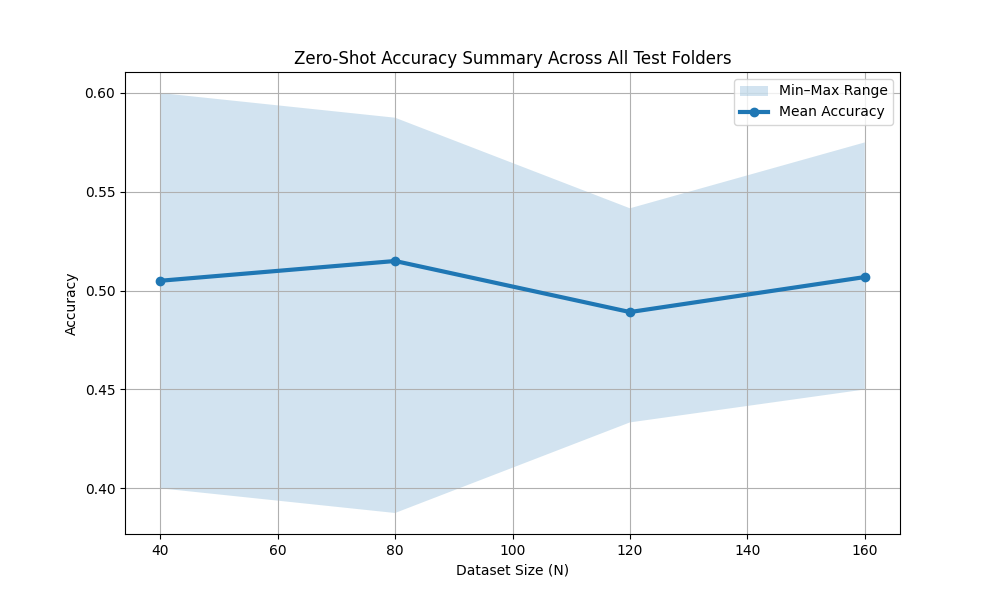
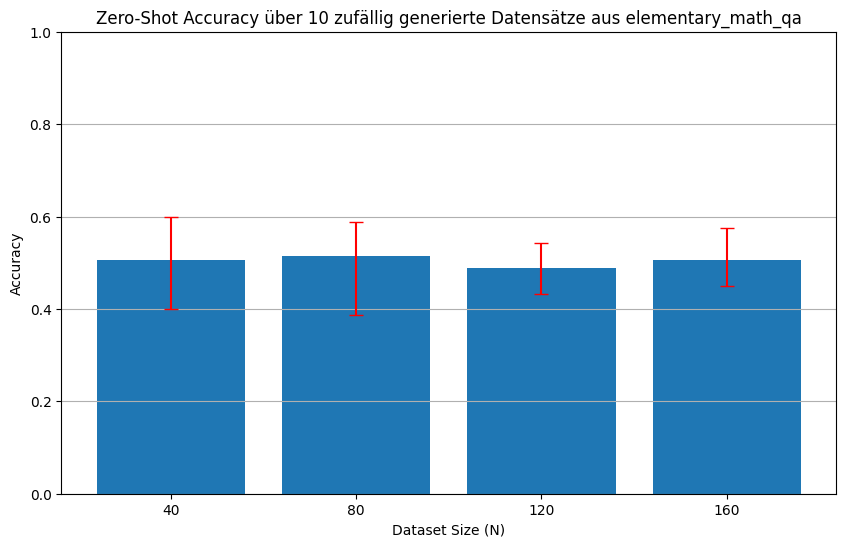
improve analysis - better graphic

diff --git a/elementary_math_qa/analyse.py b/elementary_math_qa/analyse.py
@@ -70,29 +70,51 @@ def build_overall_summary(all_results: pd.DataFrame):
 
 
 def plot_summary(summary_df: pd.DataFrame):
-    """Erstellt eine Min/Max/Mean Grafik für Accuracy pro N."""
+    """
+    Erstellt ein Balkendiagramm für Accuracy pro N:
+    - Balken = Mittelwert
+    - Fehlerbalken = Abstand zu Min/Max
+    - y-Achse beginnt bei 0
+    """
 
-    plt.figure(figsize=(10, 6))
-
-    Ns = summary_df["N"]
+    Ns = summary_df["N"].astype(int)
     mean = summary_df["mean"]
     minv = summary_df["min"]
     maxv = summary_df["max"]
 
-    # Bereich (min–max)
-    plt.fill_between(Ns, minv, maxv, alpha=0.2, label="Min–Max Range")
+    # Fehlerbalken nach unten/oben relativ zum Mittelwert
+    yerr_lower = mean - minv
+    yerr_upper = maxv - mean
 
-    # Mittelwert
-    plt.plot(Ns, mean, marker="o", linewidth=3, label="Mean Accuracy")
+    x = range(len(Ns))
+
+    plt.figure(figsize=(10, 6))
+
+    # Balken für die Mittelwerte
+    plt.bar(x, mean, tick_label=Ns)
+
+    # Fehlerbalken (Min/Max)
+    plt.errorbar(
+      x,
+      mean,
+      yerr=[yerr_lower, yerr_upper],
+      fmt="none",
+      capsize=5,
+      linewidth=1.5,
+      ecolor="red"           # <- hier Farbe ändern!
+    )
 
     plt.xlabel("Dataset Size (N)")
     plt.ylabel("Accuracy")
-    plt.title("Zero-Shot Accuracy Summary Across All Test Folders")
-    plt.grid(True)
-    plt.legend()
+    plt.title("Zero-Shot Accuracy über 10 zufällig generierte Datensätze aus elementary_math_qa")
+
+    # y-Achse sicher bei 0 starten lassen
+    plt.ylim(bottom=0.0, top=1.0)
+
+    plt.grid(axis="y")
 
     output = BASE_DIR / "overall_plot.png"
-    plt.savefig(output)
+    plt.savefig(output, bbox_inches="tight")
     print(f"→ Grafik gespeichert als {output}")
 
 

diff --git a/navigate_200/analyse.py b/navigate_200/analyse.py
@@ -70,29 +70,51 @@ def build_overall_summary(all_results: pd.DataFrame):
 
 
 def plot_summary(summary_df: pd.DataFrame):
-    """Erstellt eine Min/Max/Mean Grafik für Accuracy pro N."""
+    """
+    Erstellt ein Balkendiagramm für Accuracy pro N:
+    - Balken = Mittelwert
+    - Fehlerbalken = Abstand zu Min/Max
+    - y-Achse beginnt bei 0
+    """
 
-    plt.figure(figsize=(10, 6))
-
-    Ns = summary_df["N"]
+    Ns = summary_df["N"].astype(int)
     mean = summary_df["mean"]
     minv = summary_df["min"]
     maxv = summary_df["max"]
 
-    # Bereich (min–max)
-    plt.fill_between(Ns, minv, maxv, alpha=0.2, label="Min–Max Range")
+    # Fehlerbalken nach unten/oben relativ zum Mittelwert
+    yerr_lower = mean - minv
+    yerr_upper = maxv - mean
 
-    # Mittelwert
-    plt.plot(Ns, mean, marker="o", linewidth=3, label="Mean Accuracy")
+    x = range(len(Ns))
+
+    plt.figure(figsize=(10, 6))
+
+    # Balken für die Mittelwerte
+    plt.bar(x, mean, tick_label=Ns)
+
+    # Fehlerbalken (Min/Max)
+    plt.errorbar(
+      x,
+      mean,
+      yerr=[yerr_lower, yerr_upper],
+      fmt="none",
+      capsize=5,
+      linewidth=1.5,
+      ecolor="red"           # <- hier Farbe ändern!
+    )
 
     plt.xlabel("Dataset Size (N)")
     plt.ylabel("Accuracy")
-    plt.title("Zero-Shot Accuracy Summary Across All Test Folders")
-    plt.grid(True)
-    plt.legend()
+    plt.title("Zero-Shot Accuracy über 10 zufällig generierte Datensätze aus navigate")
+
+    # y-Achse sicher bei 0 starten lassen
+    plt.ylim(bottom=0.0, top=1.0)
+
+    plt.grid(axis="y")
 
     output = BASE_DIR / "overall_plot.png"
-    plt.savefig(output)
+    plt.savefig(output, bbox_inches="tight")
     print(f"→ Grafik gespeichert als {output}")
 
 

diff --git a/zero-shot_improved.py b/zero-shot_improved.py
@@ -391,10 +391,10 @@ if __name__ == "__main__":
     dataset_name = "elementary_math_qa"
     #dataset_name_split = dataset_name.split("_")[0]
 
-    #test_numbers = ["5","15","19","23","31","42","48","50","56","62"]
-    test_numbers = ["56"]
-    #dataset_sizes = ["40", "80", "120", "160"]
-    dataset_sizes = ["120","160"]
+    test_numbers = ["5","15","19","23","31","42","48","50","56","62"]
+    #test_numbers = ["56"]
+    dataset_sizes = ["40", "80", "120", "160"]
+    #dataset_sizes = ["120","160"]
 
     # Prompt, Model, etc. bleiben wie bisher
     system_message_task = None
